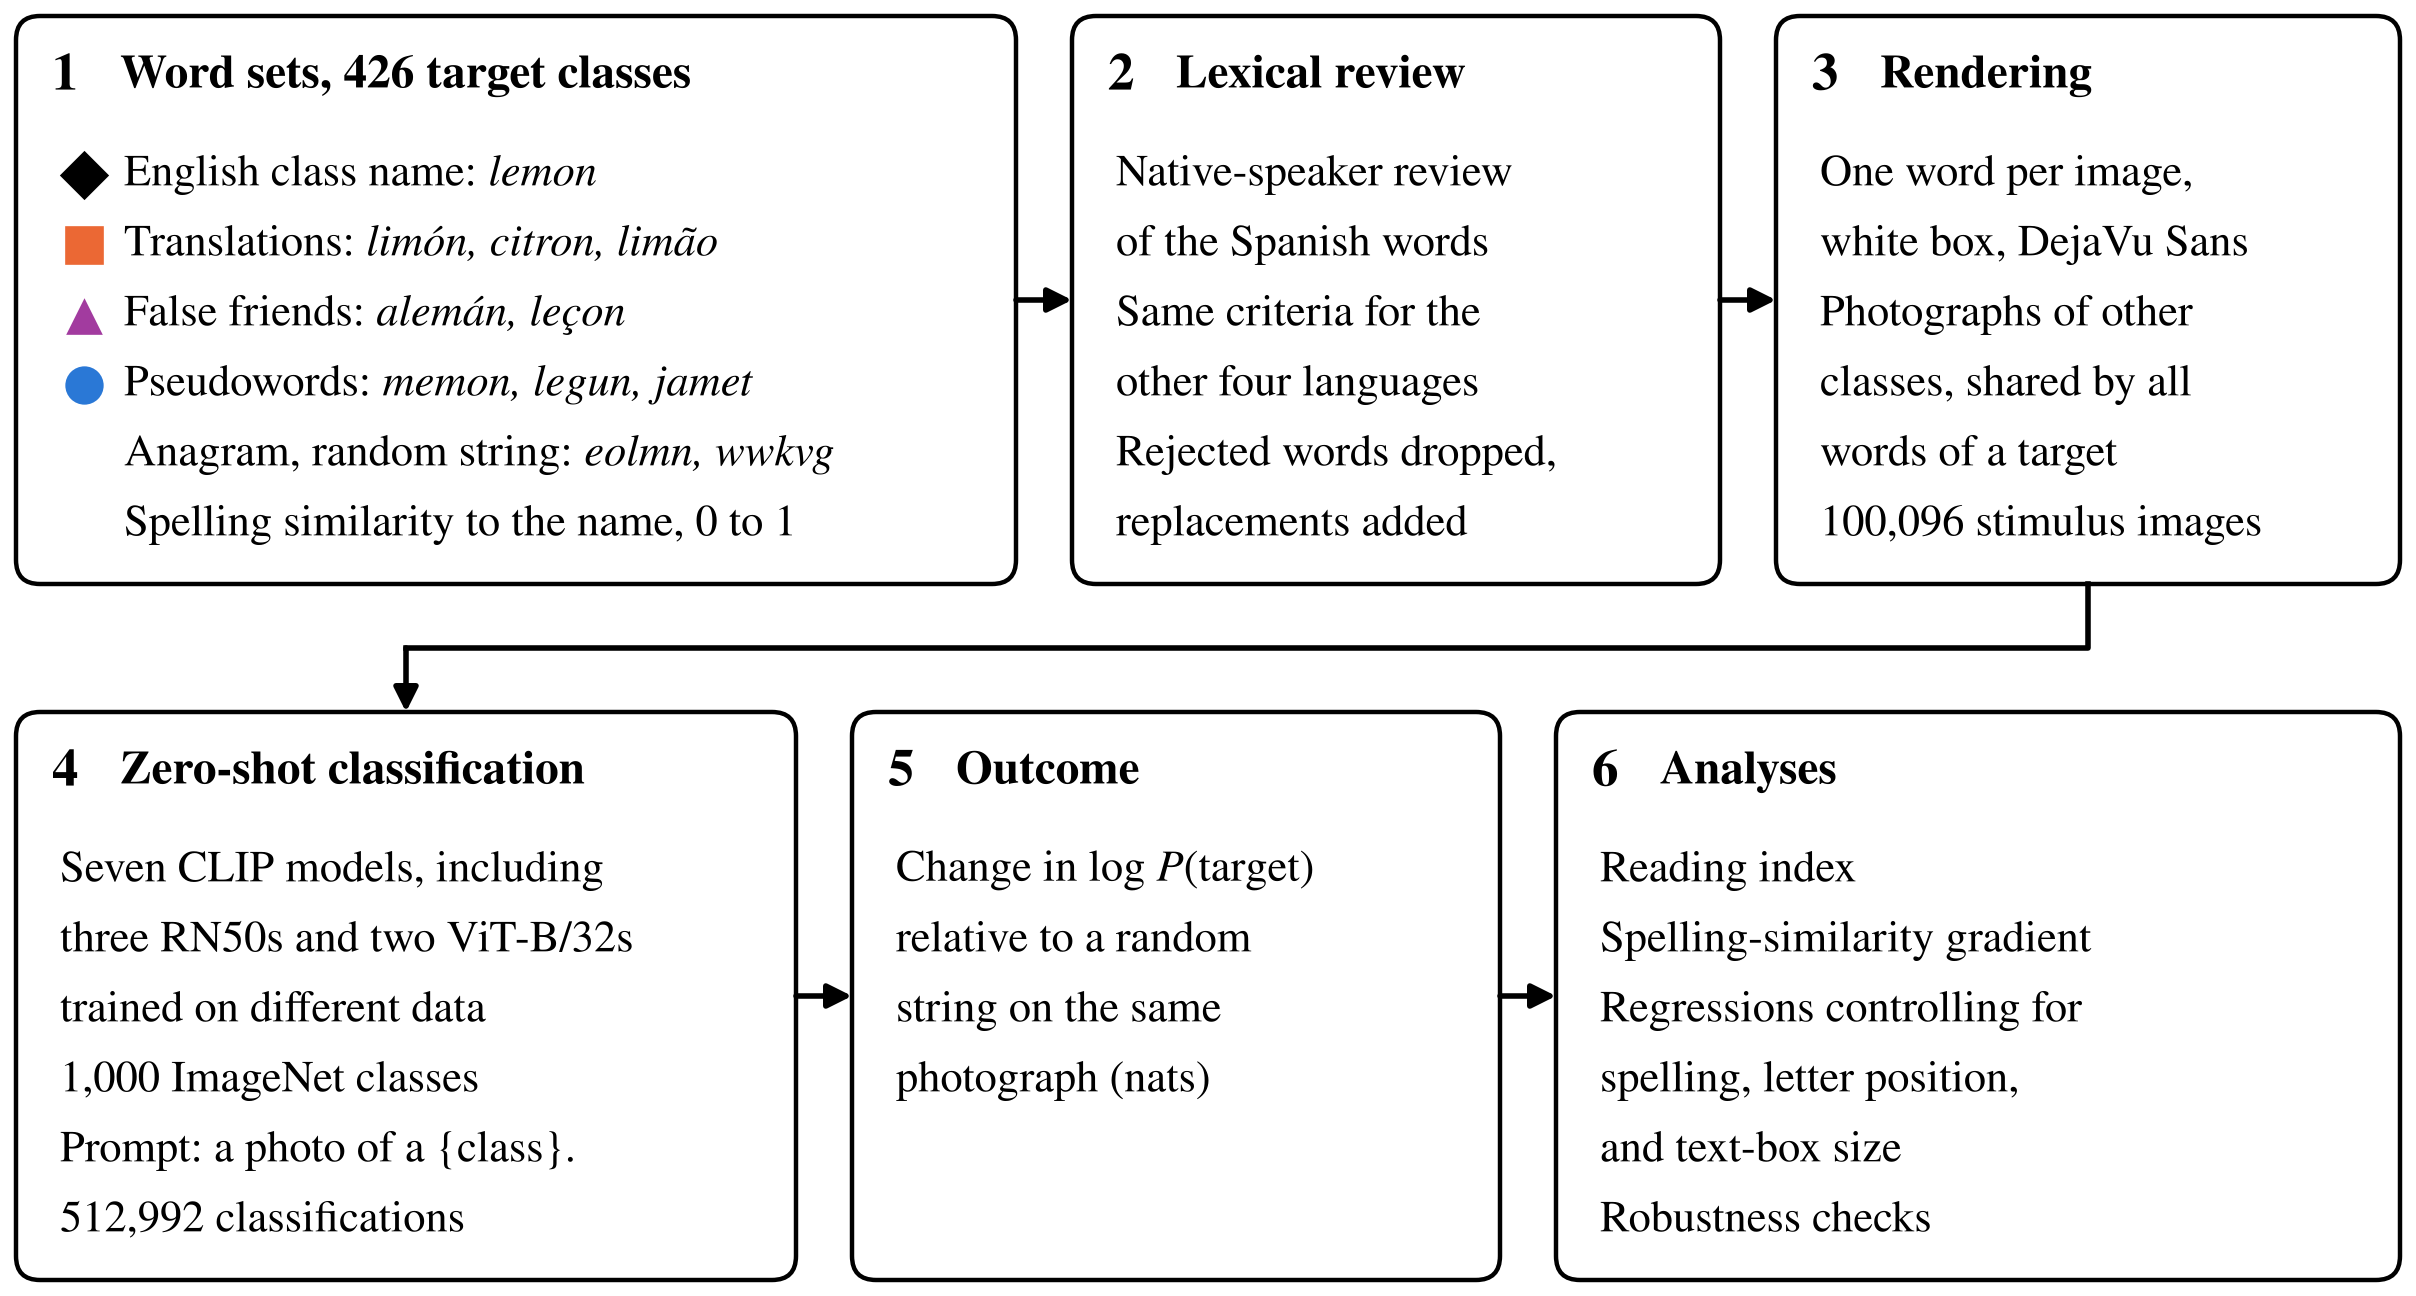
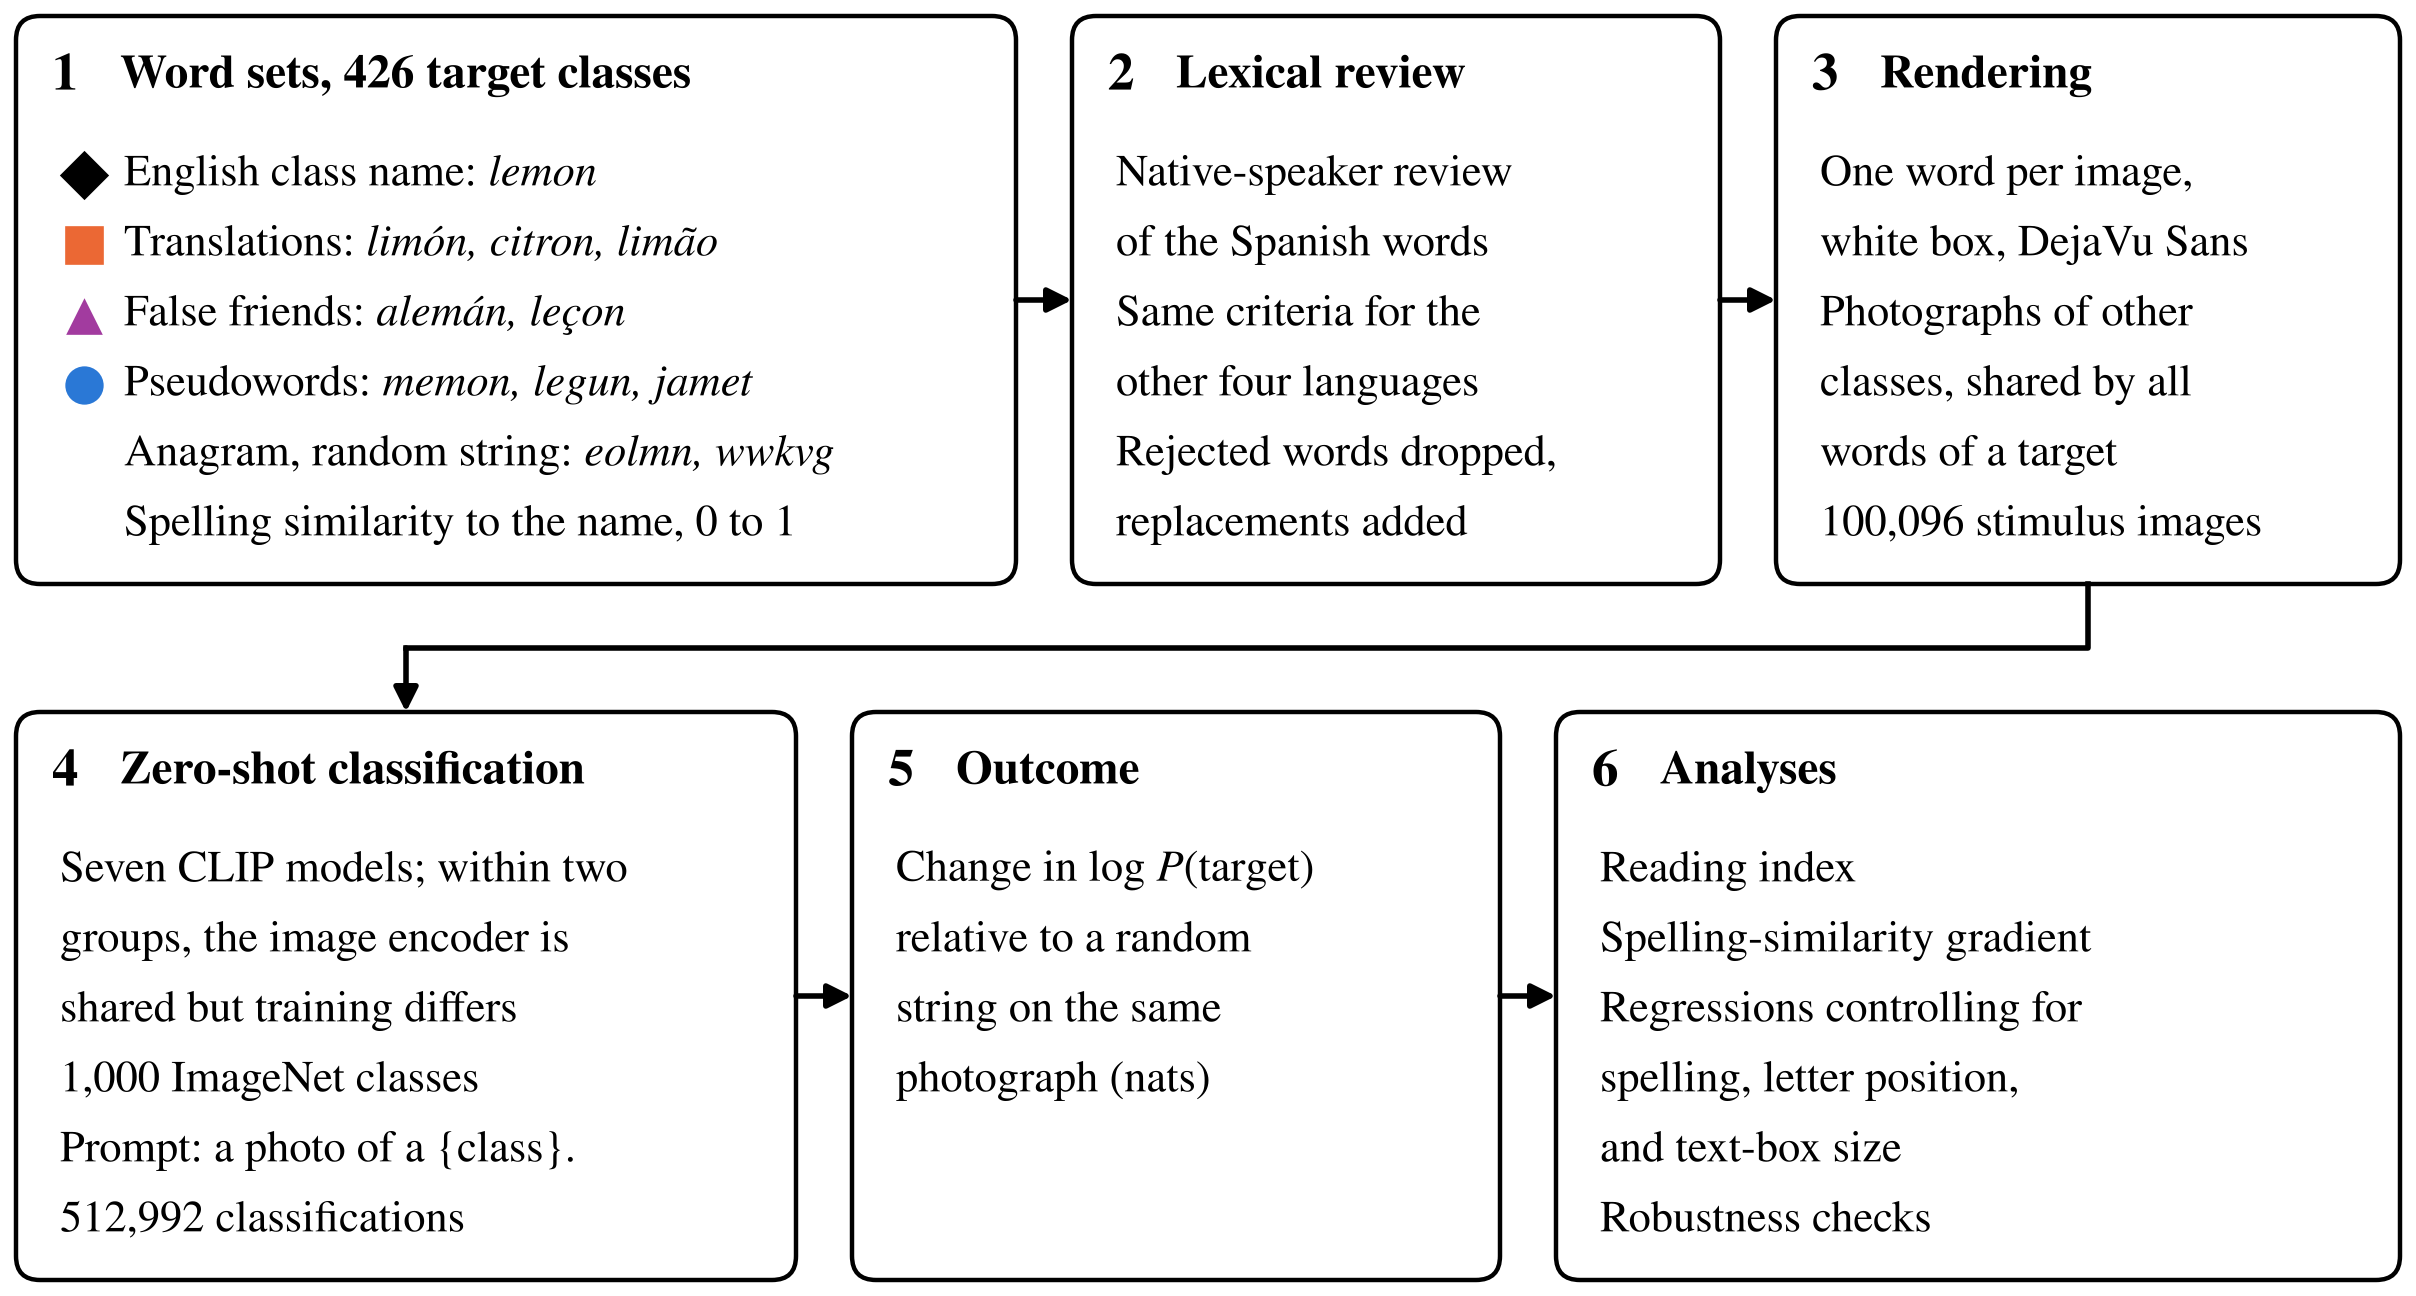
Describe Figure 1 models without abbreviations and update the README
Figure 1 now describes the shared image encoders in words, the data
dictionary notes that both ViT-B/32 models use 16 photographs per target,
and the third-party section names the Hugging Face sources.

Changed region(s): [[0.031, 0.7099, 0.2794, 0.7407], [0.031, 0.7716, 0.2173, 0.8025], [0.1863, 0.6481, 0.2483, 0.679]]

diff --git a/scripts/make_figures.py b/scripts/make_figures.py
@@ -140,8 +140,8 @@ def figure1():
     u1, u2 = m, m + v1 + gap
     u3 = u2 + v2 + gap
     box(u1, y2, v1, h2, "4", "Zero-shot classification")
-    lines(u1 + 0.11, y2 + h2 - 0.34, ["Seven CLIP models, including", "three RN50s and two ViT-B/32s",
-                                      "trained on different data", "1,000 ImageNet classes", "Prompt: a photo of a {class}.",
+    lines(u1 + 0.11, y2 + h2 - 0.34, ["Seven CLIP models; within two", "groups, the image encoder is",
+                                      "shared but training differs", "1,000 ImageNet classes", "Prompt: a photo of a {class}.",
                                       f"{facts['stimuli']['run_total']:,} classifications"])
     box(u2, y2, v2, h2, "5", "Outcome")
     lines(u2 + 0.11, y2 + h2 - 0.34, ["Change in log $P$(target)", "relative to a random", "string on the same",

diff --git a/README.md b/README.md
@@ -152,8 +152,8 @@ access.
 
 `stimuli/manifest.csv` (one row per stimulus image): `stim_id`, the target and word columns above,
 `source_idx` and `source_wnid` (the ImageNet class of the photograph the word is written on), and
-`source_rank` (0 to 15; the ViT-B/32 model uses all 16 photographs per target and the other models
-the first 10).
+`source_rank` (0 to 15; the two ViT-B/32 models use all 16 photographs per target and the other
+models the first 10).
 
 `results/<model>_stimuli.csv` (one row per stimulus): `pred` (top-1 class index), `target_logp`
 (log-probability of the target class), `target_rank` (number of classes ranked above the target),
@@ -181,7 +181,8 @@ downloads the photographs from the public sample at
 https://github.com/EliSchwartz/imagenet-sample-images (commit `bc69043`), which remain subject to
 the ImageNet terms of access, and the WordNet and Open Multilingual Wordnet corpora from the NLTK
 data repository, under their own licenses. `fetch_models.py` downloads the checkpoints from the
-OpenCLIP and OpenAI release locations, under the licenses of those projects. The DejaVu Sans font
+OpenCLIP and OpenAI release locations and from the LAION and XLM-RoBERTa repositories on Hugging
+Face, under the licenses of those projects. The DejaVu Sans font
 is included under its license in `fonts/LICENSE-DejaVu.txt`. The photograph in `photos/`, shown in
 Figure 2, was taken by an employee of the Federal Bureau of Investigation as part of official
 duties and is in the public domain in the United States; `photos/README.md` records its source.
